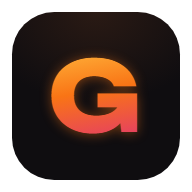
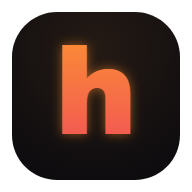
Nazwa „hydra”: ikony PWA z literą h i napis na pustym ekranie
Claude-Session: https://claude.ai/code/session_016Y52odbp3hUXoRKNx4jAxQ

diff --git a/src/components/NotatnikWordmark.tsx b/src/components/NotatnikWordmark.tsx
@@ -2,7 +2,7 @@ import { m as motion, useReducedMotion } from "framer-motion";
 import { cn } from "@/lib/utils";
 
 /**
- * Wordmark „G” — litera wypisuje się odręcznie,
+ * Wordmark „hydra” — litery wypisują się odręcznie, jedna po drugiej,
  * a na końcu podkreśla się jednym pociągnięciem. Za nim mruga kursor tekstowy.
  *
  * Zamiast obrazka: same ścieżki SVG, więc rysunek jest ostry w każdej skali,
@@ -17,14 +17,22 @@ interface Stroke {
   dur?: number;
 }
 
-// Litera G jako jedno pociągnięcie pióra. Baseline y=64, wysokość liter górnych od y=18.
+// Każda litera to jedno pociągnięcie pióra. Baseline y=64, wysokość liter górnych od y=18, „y” schodzi do y=84.
 const LETTERS: Stroke[] = [
-  // G: łuk od prawego góry, dookoła, i poprzeczka do środka
-  { d: "M160 32 C150 22 110 18 102 40 C95 62 110 70 128 66 C141 63 146 56 146 50 L128 50", at: 0.0, dur: 0.9 },
+  // h: słupek, łuk i prawa noga
+  { d: "M30 18 V64 M30 46 C30 37 37 33 46 33 C56 33 60 40 60 50 V64", at: 0.0, dur: 0.45 },
+  // y: dwa skosy schodzące w ogonek
+  { d: "M72 34 L84 66 L96 34 M84 66 Q80 80 70 84", at: 0.5, dur: 0.5 },
+  // d: pętla i słupek z prawej
+  { d: "M146 18 V66 M146 48 C146 39 139 33 129 33 C118 33 111 41 111 50 C111 59 118 66 129 66 C139 66 146 60 146 50", at: 0.95, dur: 0.5 },
+  // r: słupek i łuk ramienia
+  { d: "M160 34 V64 M160 48 C160 39 166 34 176 34", at: 1.4, dur: 0.35 },
+  // a: pętla i prawy słupek
+  { d: "M206 34 V64 M206 46 C206 38 200 33 193 33 C186 33 182 40 182 48 C182 58 188 64 196 64 C202 64 206 59 206 52", at: 1.7, dur: 0.5 },
 ];
 
-const UNDERLINE = "M96 80 C120 75 150 74 172 78";
-const WRITING_END = 0.95;
+const UNDERLINE = "M30 92 C90 89 160 89 224 92";
+const WRITING_END = 2.25;
 
 export function NotatnikWordmark({ className }: { className?: string }) {
   const reduce = useReducedMotion();
@@ -46,7 +54,7 @@ export function NotatnikWordmark({ className }: { className?: string }) {
     <svg
       viewBox="0 0 264 96"
       role="img"
-      aria-label="G"
+      aria-label="hydra"
       className={cn("w-64 max-w-full h-auto", className)}
     >
       {/* Napis */}
@@ -75,7 +83,7 @@ export function NotatnikWordmark({ className }: { className?: string }) {
       {/* Kursor tekstowy — mruga dopiero, gdy pióro skończyło. */}
       {!reduce && (
         <motion.rect
-          x="178"
+          x="214"
           y="34"
           width="2.5"
           height="32"

diff --git a/e2e/brand-hydra.spec.ts b/e2e/brand-hydra.spec.ts
@@ -1,0 +1,13 @@
+import { test, expect } from "@playwright/test";
+
+// Nazwa i logo aplikacji to „hydra” (tytuł karty, logo w nagłówku i w pasku bocznym).
+
+test.beforeEach(async ({ page }) => {
+  await page.addInitScript(() => localStorage.setItem("kaczy.tour.seen.v1", "1"));
+});
+
+test("nazwa aplikacji: tytuł karty i logo „hydra”", async ({ page }) => {
+  await page.goto("/");
+  await expect(page).toHaveTitle("hydra");
+  await expect(page.getByRole("img", { name: "hydra" }).first()).toBeAttached();
+});

diff --git a/opis.md b/opis.md
@@ -337,7 +337,7 @@ Dział opisany w jednym miejscu. Refaktor `Index.tsx` i `NoteCard.tsx` (etapy 4 
 - `src/components/NoteCardBody.tsx` — tryb podglądu (`BACKLINKS_SHOWN`, `subpage`, `trashCountdown`, „Gotowe”/„Jutro”).
 - **Data i czas w formularzu nowej notatki.** `AddNoteBar.tsx` pokazuje nad narzędziami „Data i czas: 14 paź 2026, 12:00” (`<time dateTime>`). Wartość `openedAt` ustawia się przy każdym otwarciu formularza (`useEffect` na `expanded`). Zapis nie zmienia `createdAt` — w modelu danych nie ma pola na datę wpisaną ręcznie. Test: `e2e/composer-datetime.spec.ts`.
 - **Godzina zawsze przy terminie.** `formatReminderShort` (`src/lib/reminderTime.ts`) pokazuje godzinę także przy „Cały dzień” (stoi na 9:00): „dziś, 09:00”, „jutro, 09:00”, „25 paź, 09:00”. Parametr `allDay` usunięty. Testy: `src/lib/reminderTime.test.ts`; e2e `calendar-phase2`, `entry-check`, `report-nudge`, `site-service`, `card-reminder-edit`.
-- **Nazwa i logo: „hydra”.** Wordmark `NotkiLogo.tsx` (litery `h y d r a`, `aria-label="hydra"`), monogram `NMonogramLogo.tsx` (litera „h”, `H_PATH` i `offset-path` w `index.css` muszą być zgodne), pasek boczny (`AppSidebar.tsx`: aria-label, stopka „hydra v1.0”), tytuł karty i `BASE_TITLE` (`src/lib/overdueBadge.ts`), `index.html` (title, og:title, apple-title), `public/manifest.webmanifest`, `package.json` (`name`). Zostawione celowo: klucze localStorage `kaczy.*` i `kaczy-yjs-v1` (zmiana kasowałaby dane), `author="G"`, cytat „✍ G” w `dailyQuote.ts`, tagline „Notuj, zanim zapomnisz”, ręcznie rysowany znak w `NotatnikWordmark.tsx` (pusty ekran), PNG-i ikon w `public/` (nie regenerowane). Testy: `src/hooks/useOverdueBadge.test.ts`.
+- **Nazwa i logo: „hydra”.** Wordmark `NotkiLogo.tsx` (litery `h y d r a`, `aria-label="hydra"`), monogram `NMonogramLogo.tsx` (litera „h”, `H_PATH` i `offset-path` w `index.css` muszą być zgodne), pasek boczny (`AppSidebar.tsx`: aria-label, stopka „hydra v1.0”), tytuł karty i `BASE_TITLE` (`src/lib/overdueBadge.ts`), `index.html` (title, og:title, apple-title), `public/manifest.webmanifest`, `package.json` (`name`). Zostawione celowo: klucze localStorage `kaczy.*` i `kaczy-yjs-v1` (zmiana kasowałaby dane), `author="G"`, cytat „✍ G” w `dailyQuote.ts`, tagline „Notuj, zanim zapomnisz”, Ikony PWA (`public/pwa-*.png`, `apple-touch-icon.png`, `favicon.png`) narysowane od nowa z literą „h” w gradiencie marki (render Playwright, skrypt poza repo). Ręcznie rysowany napis na pustym ekranie (`NotatnikWordmark.tsx`) pisze teraz „hydra” pociągnięciami (`LETTERS`, `UNDERLINE`, pozycja kursora). Zostawione celowo: klucze localStorage `kaczy.*` i `kaczy-yjs-v1` (zmiana kasowałaby dane), `author="G"`, cytat „✍ G” w `dailyQuote.ts`, tagline „Notuj, zanim zapomnisz”. Testy: `src/hooks/useOverdueBadge.test.ts`, `e2e/brand-hydra.spec.ts`.
 - **Edycja terminu z odznaki na karcie.** Odznaka przypomnienia na kaflu (`ReminderBadge` w `ReminderPicker.tsx`, prop `interactive`) jest przyciskiem, który otwiera `ReminderPicker` przez `trigger` — z godziną i pozostałymi polami, bez menu. Klik nie otwiera notatki w edytorze (`stopPropagation`). Tylko przy edytowalnym kaflu (nie w koszu, archiwum, zaszyfrowanej); w innych miejscach zwykły `div`. Test: `e2e/card-reminder-edit.spec.ts`.
 - **Godzina w stopce kafla.** Stopka pokazuje datę ostatniej zmiany z godziną (`d MMM, HH:mm`, `updatedAt`). Przypomnienia już pokazują godzinę na odznace (`formatReminderShort`); okna dodawania mają pole „Godzina”. Testy: `src/lib/reminderTime.test.ts`, `e2e/card*.spec.ts`, `e2e/reminder*.spec.ts`, `e2e/composer*.spec.ts`.
 - `src/components/NoteCardActions.tsx` — `ActionBtn`, `PrimaryActions` (stopka i arkusz), `MoreActions` (rozwinięcie i arkusz), kopiuj Markdown.
